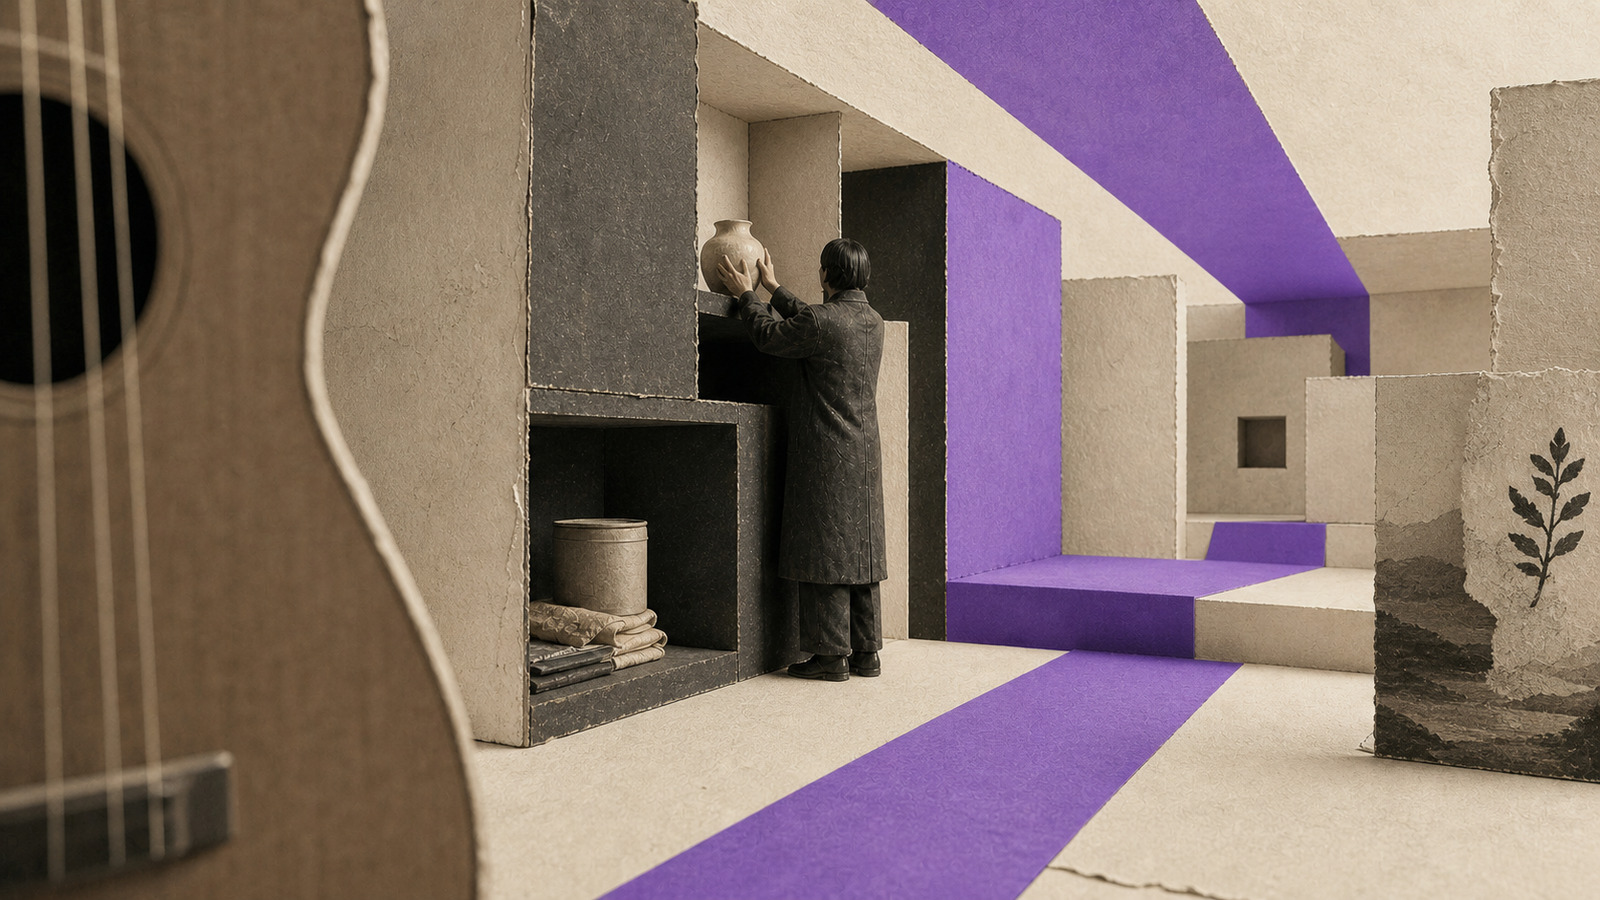
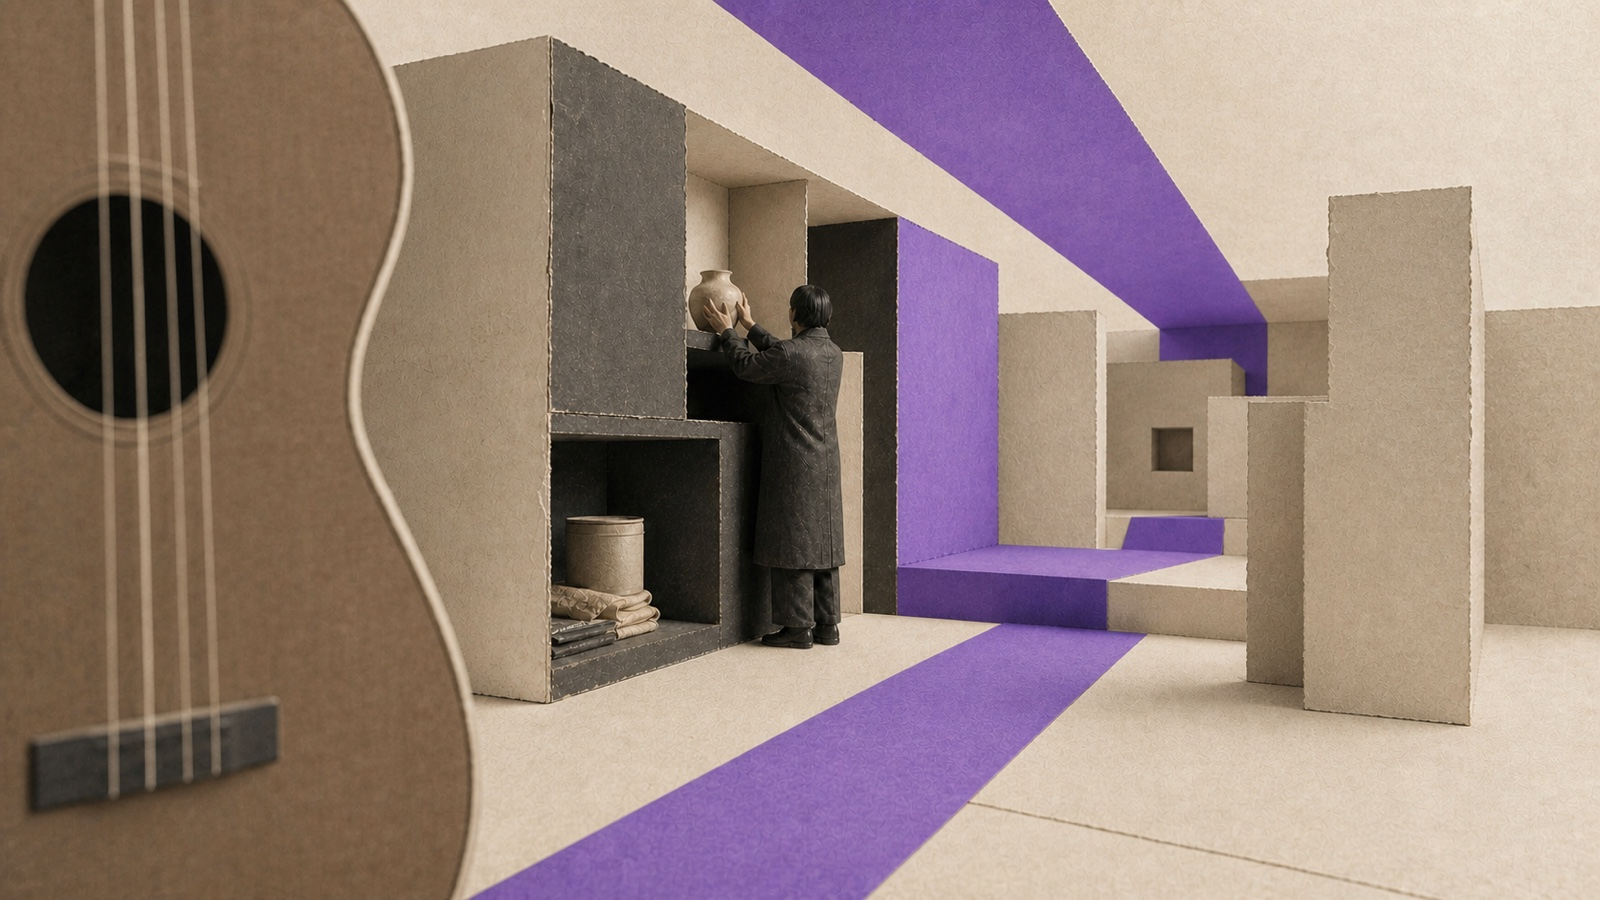
Let the Series 05 image set share one visual climate
The selected panorama now defines the paper, charcoal, lavender, and lighting balance for the series home and all three post heroes. Botanical prints were removed, and post two was pulled back modestly so its interior action has more spatial context.

Constraint: The owner-selected panorama remains the visual reference; post-specific camera narratives stay distinct.

Rejected: Reusing the panorama as every post image | it would erase the three essay-specific viewpoints.

Confidence: high

Scope-risk: narrow

Directive: Keep the four assets on cache version 20260808c as one release unit.

Tested: 66 Node tests, four-page QA gate, desktop 1280 and mobile 390 browser QA, local-final SHA-256 equality.

Not-tested: Public GitHub Pages surface; push remains owner-gated.

diff --git a/series/onchain-storytelling/posts/03-expansion/index.html b/series/onchain-storytelling/posts/03-expansion/index.html
@@ -13,8 +13,8 @@
 <meta property="og:title" content="온체인 스토리텔링 (3) 세계는 옷과 공간과 음악으로 새어 나갔다">
 <meta property="og:description" content="세계관이 있었고 캐릭터가 살았다. 앞의 두 편에서 정리한 이야기다. 이 편은 그 세계가 밖으로 내보낸 것들에 대한 글이다. 확장의 방향은 한 갈래가 아니었다. 영상 연작이 쌓였고, 캐릭터가 옷 브랜드의 화자가 됐고, 호텔의 형태를 한 공간 시스템이 기획됐고, 무대 뒤에">
 <meta property="og:url" content="https://kiheonshin.github.io/blog-post-assets/series/onchain-storytelling/posts/03-expansion/">
-<meta property="og:image" content="https://kiheonshin.github.io/blog-post-assets/series/onchain-storytelling/assets/hero-3.jpg">
-<meta property="og:image:secure_url" content="https://kiheonshin.github.io/blog-post-assets/series/onchain-storytelling/assets/hero-3.jpg">
+<meta property="og:image" content="https://kiheonshin.github.io/blog-post-assets/series/onchain-storytelling/assets/hero-3.jpg?v=20260808c">
+<meta property="og:image:secure_url" content="https://kiheonshin.github.io/blog-post-assets/series/onchain-storytelling/assets/hero-3.jpg?v=20260808c">
 <meta property="og:image:type" content="image/jpeg">
 <!-- 치수를 명시하지 않으면 크롤러가 이미지를 아직 못 받은 첫 공유에서
      썸네일 자리를 잡지 못하고 빈 링크로 보인다 -->
@@ -24,7 +24,7 @@
 <meta name="twitter:card" content="summary_large_image">
 <meta name="twitter:title" content="온체인 스토리텔링 (3) 세계는 옷과 공간과 음악으로 새어 나갔다">
 <meta name="twitter:description" content="세계관이 있었고 캐릭터가 살았다. 앞의 두 편에서 정리한 이야기다. 이 편은 그 세계가 밖으로 내보낸 것들에 대한 글이다. 확장의 방향은 한 갈래가 아니었다. 영상 연작이 쌓였고, 캐릭터가 옷 브랜드의 화자가 됐고, 호텔의 형태를 한 공간 시스템이 기획됐고, 무대 뒤에">
-<meta name="twitter:image" content="https://kiheonshin.github.io/blog-post-assets/series/onchain-storytelling/assets/hero-3.jpg">
+<meta name="twitter:image" content="https://kiheonshin.github.io/blog-post-assets/series/onchain-storytelling/assets/hero-3.jpg?v=20260808c">
 <script async src="https://www.googletagmanager.com/gtag/js?id=G-SQYBGPJFJ4"></script>
 <script>
 window.dataLayer=window.dataLayer||[];
@@ -242,7 +242,7 @@ figcaption{margin-block-start:.75rem;color:var(--ink-muted);
 @media(prefers-reduced-motion:reduce){*{transition:none!important}}
 </style>
 <link rel="stylesheet" href="../../../../assets/site.css?v=20260807j">
-<script type="module" src="../../../../assets/series-nav.js?v=20260808b"></script>
+<script type="module" src="../../../../assets/series-nav.js?v=20260808c"></script>
 <script type="module" src="../../../../assets/agent-handoff.js?v=20260803a"></script>
 
 <style>
@@ -269,7 +269,7 @@ figcaption{margin-block-start:.75rem;color:var(--ink-muted);
     <h1><span class="t-post">세계는 옷과 공간과 음악으로 새어 나갔다</span><span class="t-series">온체인 스토리텔링<span class="t-part">PART 3</span></span></h1>
   </header>
   <figure class="hero">
-    <img src="../../assets/hero-3.jpg" alt="온체인 스토리텔링 (3) 세계는 옷과 공간과 음악으로 새어 나갔다 키 비주얼" width="1600" height="900" decoding="async">
+    <img src="../../assets/hero-3.jpg?v=20260808c" alt="온체인 스토리텔링 (3) 세계는 옷과 공간과 음악으로 새어 나갔다 키 비주얼" width="1600" height="900" decoding="async">
   </figure>
   <p class="lead">세계관이 있었고 캐릭터가 살았다. 앞의 두 편에서 정리한 이야기다. 이 편은 그 세계가 밖으로 내보낸 것들에 대한 글이다. 확장의 방향은 한 갈래가 아니었다. 영상 연작이 쌓였고, 캐릭터가 옷 브랜드의 화자가 됐고, 호텔의 형태를 한 공간 시스템이 기획됐고, 무대 뒤에 숨겨두었던 캐릭터의 다른 얼굴은 실제 음원이 됐고, 아직 그려지지 않은 캐릭터 하나가 미술 갈래의 자리로 남았다. 어떤 것은 실물이 됐고 어떤 것은 아이디어로 남았다. 그 갈래들을 순서대로 적는다.</p>
   <series-nav data-series="onchain-storytelling" data-current="03-expansion"></series-nav>

diff --git a/series/onchain-storytelling/posts/01-worldview/index.html b/series/onchain-storytelling/posts/01-worldview/index.html
@@ -13,8 +13,8 @@
 <meta property="og:title" content="온체인 스토리텔링 (1) 이야기를 담으려면 세계부터 지어야 했다">
 <meta property="og:description" content="2023년 가을에 글 한 편을 발행했다. 모든 것이 온체인 데이터와 트랜잭션으로 정의된 세상을 상상해보셨나요, 라는 질문으로 시작하는 글이었다. 거기서 나는 온체인 스토리텔링(On-chain Storytelling)을 다음 단계의 크리에이티브로 정의했다. 새 기술을 소">
 <meta property="og:url" content="https://kiheonshin.github.io/blog-post-assets/series/onchain-storytelling/posts/01-worldview/">
-<meta property="og:image" content="https://kiheonshin.github.io/blog-post-assets/series/onchain-storytelling/assets/hero-1.jpg">
-<meta property="og:image:secure_url" content="https://kiheonshin.github.io/blog-post-assets/series/onchain-storytelling/assets/hero-1.jpg">
+<meta property="og:image" content="https://kiheonshin.github.io/blog-post-assets/series/onchain-storytelling/assets/hero-1.jpg?v=20260808c">
+<meta property="og:image:secure_url" content="https://kiheonshin.github.io/blog-post-assets/series/onchain-storytelling/assets/hero-1.jpg?v=20260808c">
 <meta property="og:image:type" content="image/jpeg">
 <!-- 치수를 명시하지 않으면 크롤러가 이미지를 아직 못 받은 첫 공유에서
      썸네일 자리를 잡지 못하고 빈 링크로 보인다 -->
@@ -24,7 +24,7 @@
 <meta name="twitter:card" content="summary_large_image">
 <meta name="twitter:title" content="온체인 스토리텔링 (1) 이야기를 담으려면 세계부터 지어야 했다">
 <meta name="twitter:description" content="2023년 가을에 글 한 편을 발행했다. 모든 것이 온체인 데이터와 트랜잭션으로 정의된 세상을 상상해보셨나요, 라는 질문으로 시작하는 글이었다. 거기서 나는 온체인 스토리텔링(On-chain Storytelling)을 다음 단계의 크리에이티브로 정의했다. 새 기술을 소">
-<meta name="twitter:image" content="https://kiheonshin.github.io/blog-post-assets/series/onchain-storytelling/assets/hero-1.jpg">
+<meta name="twitter:image" content="https://kiheonshin.github.io/blog-post-assets/series/onchain-storytelling/assets/hero-1.jpg?v=20260808c">
 <script async src="https://www.googletagmanager.com/gtag/js?id=G-SQYBGPJFJ4"></script>
 <script>
 window.dataLayer=window.dataLayer||[];
@@ -242,7 +242,7 @@ figcaption{margin-block-start:.75rem;color:var(--ink-muted);
 @media(prefers-reduced-motion:reduce){*{transition:none!important}}
 </style>
 <link rel="stylesheet" href="../../../../assets/site.css?v=20260807j">
-<script type="module" src="../../../../assets/series-nav.js?v=20260808b"></script>
+<script type="module" src="../../../../assets/series-nav.js?v=20260808c"></script>
 <script type="module" src="../../../../assets/agent-handoff.js?v=20260803a"></script>
 
 <style>
@@ -269,7 +269,7 @@ figcaption{margin-block-start:.75rem;color:var(--ink-muted);
     <h1><span class="t-post">이야기를 담으려면 세계부터 지어야 했다</span><span class="t-series">온체인 스토리텔링<span class="t-part">PART 1</span></span></h1>
   </header>
   <figure class="hero">
-    <img src="../../assets/hero-1.jpg" alt="온체인 스토리텔링 (1) 이야기를 담으려면 세계부터 지어야 했다 키 비주얼" width="1600" height="900" decoding="async">
+    <img src="../../assets/hero-1.jpg?v=20260808c" alt="온체인 스토리텔링 (1) 이야기를 담으려면 세계부터 지어야 했다 키 비주얼" width="1600" height="900" decoding="async">
   </figure>
   <p class="lead">2023년 가을에 글 한 편을 발행했다. 모든 것이 온체인 데이터와 트랜잭션으로 정의된 세상을 상상해보셨나요, 라는 질문으로 시작하는 글이었다. 거기서 나는 온체인 스토리텔링(On-chain Storytelling)을 다음 단계의 크리에이티브로 정의했다. 새 기술을 소개하는 글이 아니었다. 이야기를 담을 그릇으로 게임 서버도 영상 플랫폼도 아닌, 지워지지 않는 장부를 고르겠다는 글이었다. 이 글은 그 세계가 무엇으로 지어졌는지를 3년 뒤에 다시 정리한 것이다.</p>
   <series-nav data-series="onchain-storytelling" data-current="01-worldview"></series-nav>

diff --git a/series/onchain-storytelling/posts/02-methodology/index.html b/series/onchain-storytelling/posts/02-methodology/index.html
@@ -13,8 +13,8 @@
 <meta property="og:title" content="온체인 스토리텔링 (2) 캐릭터는 정의되기 전에 먼저 살았다">
 <meta property="og:description" content="세계관을 소개하는 글보다 캐릭터가 먼저 있었다. MIXtown의 첫 캐릭터가 채널에 등장한 것이 2023년 8월이고, 온체인 스토리텔링을 정의한 매니페스토는 9월 말에 나왔다. 설정집을 완성한 뒤 캐릭터를 내보낸 것이 아니라, 캐릭터가 한 달 넘게 산 뒤에야 그 세계의">
 <meta property="og:url" content="https://kiheonshin.github.io/blog-post-assets/series/onchain-storytelling/posts/02-methodology/">
-<meta property="og:image" content="https://kiheonshin.github.io/blog-post-assets/series/onchain-storytelling/assets/hero-2.jpg">
-<meta property="og:image:secure_url" content="https://kiheonshin.github.io/blog-post-assets/series/onchain-storytelling/assets/hero-2.jpg">
+<meta property="og:image" content="https://kiheonshin.github.io/blog-post-assets/series/onchain-storytelling/assets/hero-2.jpg?v=20260808c">
+<meta property="og:image:secure_url" content="https://kiheonshin.github.io/blog-post-assets/series/onchain-storytelling/assets/hero-2.jpg?v=20260808c">
 <meta property="og:image:type" content="image/jpeg">
 <!-- 치수를 명시하지 않으면 크롤러가 이미지를 아직 못 받은 첫 공유에서
      썸네일 자리를 잡지 못하고 빈 링크로 보인다 -->
@@ -24,7 +24,7 @@
 <meta name="twitter:card" content="summary_large_image">
 <meta name="twitter:title" content="온체인 스토리텔링 (2) 캐릭터는 정의되기 전에 먼저 살았다">
 <meta name="twitter:description" content="세계관을 소개하는 글보다 캐릭터가 먼저 있었다. MIXtown의 첫 캐릭터가 채널에 등장한 것이 2023년 8월이고, 온체인 스토리텔링을 정의한 매니페스토는 9월 말에 나왔다. 설정집을 완성한 뒤 캐릭터를 내보낸 것이 아니라, 캐릭터가 한 달 넘게 산 뒤에야 그 세계의">
-<meta name="twitter:image" content="https://kiheonshin.github.io/blog-post-assets/series/onchain-storytelling/assets/hero-2.jpg">
+<meta name="twitter:image" content="https://kiheonshin.github.io/blog-post-assets/series/onchain-storytelling/assets/hero-2.jpg?v=20260808c">
 <script async src="https://www.googletagmanager.com/gtag/js?id=G-SQYBGPJFJ4"></script>
 <script>
 window.dataLayer=window.dataLayer||[];
@@ -242,7 +242,7 @@ figcaption{margin-block-start:.75rem;color:var(--ink-muted);
 @media(prefers-reduced-motion:reduce){*{transition:none!important}}
 </style>
 <link rel="stylesheet" href="../../../../assets/site.css?v=20260807j">
-<script type="module" src="../../../../assets/series-nav.js?v=20260808b"></script>
+<script type="module" src="../../../../assets/series-nav.js?v=20260808c"></script>
 <script type="module" src="../../../../assets/agent-handoff.js?v=20260803a"></script>
 
 <style>
@@ -269,7 +269,7 @@ figcaption{margin-block-start:.75rem;color:var(--ink-muted);
     <h1><span class="t-post">캐릭터는 정의되기 전에 먼저 살았다</span><span class="t-series">온체인 스토리텔링<span class="t-part">PART 2</span></span></h1>
   </header>
   <figure class="hero">
-    <img src="../../assets/hero-2.jpg" alt="온체인 스토리텔링 (2) 캐릭터는 정의되기 전에 먼저 살았다 키 비주얼" width="1600" height="900" decoding="async">
+    <img src="../../assets/hero-2.jpg?v=20260808c" alt="온체인 스토리텔링 (2) 캐릭터는 정의되기 전에 먼저 살았다 키 비주얼" width="1600" height="900" decoding="async">
   </figure>
   <p class="lead">세계관을 소개하는 글보다 캐릭터가 먼저 있었다. MIXtown의 첫 캐릭터가 채널에 등장한 것이 2023년 8월이고, 온체인 스토리텔링을 정의한 매니페스토는 9월 말에 나왔다. 설정집을 완성한 뒤 캐릭터를 내보낸 것이 아니라, 캐릭터가 한 달 넘게 산 뒤에야 그 세계의 정의가 발행된 것이다. 이 편은 그 순서에 대한 글이다. 빈 계정에 성격과 소지품과 이야기를 채워 넣는 방법, 그리고 완성하지 않은 자리를 남겨두는 방법에 대해 쓴다.</p>
   <series-nav data-series="onchain-storytelling" data-current="02-methodology"></series-nav>

diff --git a/series/onchain-storytelling/index.html b/series/onchain-storytelling/index.html
@@ -12,14 +12,14 @@
 <meta property="og:title" content="온체인 스토리텔링">
 <meta property="og:description" content="2023년 두 차례의 발표를 3년 뒤에 다시 쓴 포스팅 세 개. 창작의 주체가 어디로 옮겨가는가.">
 <meta property="og:url" content="https://kiheonshin.github.io/blog-post-assets/series/onchain-storytelling/">
-<meta property="og:image" content="https://kiheonshin.github.io/blog-post-assets/series/onchain-storytelling/assets/series-banner.jpg?v=20260808b">
-<meta property="og:image:secure_url" content="https://kiheonshin.github.io/blog-post-assets/series/onchain-storytelling/assets/series-banner.jpg?v=20260808b">
+<meta property="og:image" content="https://kiheonshin.github.io/blog-post-assets/series/onchain-storytelling/assets/series-banner.jpg?v=20260808c">
+<meta property="og:image:secure_url" content="https://kiheonshin.github.io/blog-post-assets/series/onchain-storytelling/assets/series-banner.jpg?v=20260808c">
 <meta property="og:image:type" content="image/jpeg">
 <meta property="og:image:width" content="1600">
 <meta property="og:image:height" content="800">
 <meta property="og:image:alt" content="밝은 보라색 면이 종이 기록 지형과 생활 공간을 지나 거대한 레코드로 이어지는 온체인 스토리텔링 파노라마">
 <meta name="twitter:card" content="summary_large_image">
-<meta name="twitter:image" content="https://kiheonshin.github.io/blog-post-assets/series/onchain-storytelling/assets/series-banner.jpg?v=20260808b">
+<meta name="twitter:image" content="https://kiheonshin.github.io/blog-post-assets/series/onchain-storytelling/assets/series-banner.jpg?v=20260808c">
 <script async src="https://www.googletagmanager.com/gtag/js?id=G-SQYBGPJFJ4"></script>
 <script>
 window.dataLayer=window.dataLayer||[];
@@ -292,7 +292,7 @@ main.idx-wide{width:min(100%,calc(var(--wide) + var(--gutter)*2))}
 .idx > .lead{margin:0 0 2rem;max-width:var(--measure)}
 </style>
 <link rel="stylesheet" href="../../assets/site.css?v=20260807j">
-<script type="module" src="../../assets/series-nav.js?v=20260808b"></script>
+<script type="module" src="../../assets/series-nav.js?v=20260808c"></script>
 </head>
 <body>
 <a class="skip" href="#main">본문으로 건너뛰기</a>

diff --git a/assets/content-manifest.js b/assets/content-manifest.js
@@ -331,7 +331,7 @@ export const contentLibrary = {
       topics: ["기록과 서사", "IP와 정체성", "현실과 가상"],
       keywords: ["온체인 스토리텔링", "TBA", "캐릭터 설계", "코-크리에이션"],
       href: "series/onchain-storytelling/",
-      cover: "series/onchain-storytelling/assets/series-banner.jpg?v=20260808b",
+      cover: "series/onchain-storytelling/assets/series-banner.jpg?v=20260808c",
       coverAlt:
         "밝은 보라색 면이 종이 기록 지형과 생활 공간을 지나 거대한 레코드로 이어지는 온체인 스토리텔링 파노라마",
       published: "2026-08-06",

diff --git a/index.html b/index.html
@@ -17,7 +17,7 @@
 <link rel="icon" href="assets/favicon.svg" type="image/svg+xml">
 <link rel="preload" href="series/aigc-creative-paradigm/assets/series-banner.jpg" as="image" fetchpriority="high">
 <link rel="stylesheet" href="assets/site.css?v=20260807j">
-<script type="module" src="assets/series-nav.js?v=20260808b"></script>
+<script type="module" src="assets/series-nav.js?v=20260808c"></script>
 <script async src="https://www.googletagmanager.com/gtag/js?id=G-SQYBGPJFJ4"></script>
 <script>
 window.dataLayer=window.dataLayer||[];

diff --git a/assets/series-nav.js b/assets/series-nav.js
@@ -2,7 +2,7 @@
    HTML만 새로 받고 모듈은 캐시에서 꺼내 쓰는 일이 생긴다. 그러면 새 시리즈가
    목록에서 빠지고 "시리즈 정보를 불러오지 못했습니다"가 뜬다(2026-07-25 실증).
    페이지의 series-nav.js?v= 값과 반드시 같이 올릴 것. */
-import { contentLibrary, getSeries } from "./content-manifest.js?v=20260808b";
+import { contentLibrary, getSeries } from "./content-manifest.js?v=20260808c";
 
 const siteRoot = new URL("../", import.meta.url);
 

diff --git a/series/onchain-storytelling/sources/proposal-idea-notes/index.html b/series/onchain-storytelling/sources/proposal-idea-notes/index.html
@@ -558,7 +558,7 @@ button.frame{padding:0;cursor:zoom-in}
     margin-block-start:.7rem;font-size:1.1rem}
 }
 </style>
-<script type="module" src="../../../../assets/series-nav.js?v=20260808b"></script>
+<script type="module" src="../../../../assets/series-nav.js?v=20260808c"></script>
 </head>
 <body class="library-page source-page">
 <a class="skip" href="#main">본문으로 건너뛰기</a>

diff --git a/series/onchain-storytelling/sources/proposal-mxtwn-x/index.html b/series/onchain-storytelling/sources/proposal-mxtwn-x/index.html
@@ -561,7 +561,7 @@ button.frame{padding:0;cursor:zoom-in}
     margin-block-start:.7rem;font-size:1.1rem}
 }
 </style>
-<script type="module" src="../../../../assets/series-nav.js?v=20260808b"></script>
+<script type="module" src="../../../../assets/series-nav.js?v=20260808c"></script>
 </head>
 <body class="library-page source-page">
 <a class="skip" href="#main">본문으로 건너뛰기</a>

diff --git a/series/onchain-storytelling/sources/proposal-sapienz-town/index.html b/series/onchain-storytelling/sources/proposal-sapienz-town/index.html
@@ -558,7 +558,7 @@ button.frame{padding:0;cursor:zoom-in}
     margin-block-start:.7rem;font-size:1.1rem}
 }
 </style>
-<script type="module" src="../../../../assets/series-nav.js?v=20260808b"></script>
+<script type="module" src="../../../../assets/series-nav.js?v=20260808c"></script>
 </head>
 <body class="library-page source-page">
 <a class="skip" href="#main">본문으로 건너뛰기</a>

diff --git a/series/onchain-storytelling/sources/proposal-strategy-diagrams/index.html b/series/onchain-storytelling/sources/proposal-strategy-diagrams/index.html
@@ -558,7 +558,7 @@ button.frame{padding:0;cursor:zoom-in}
     margin-block-start:.7rem;font-size:1.1rem}
 }
 </style>
-<script type="module" src="../../../../assets/series-nav.js?v=20260808b"></script>
+<script type="module" src="../../../../assets/series-nav.js?v=20260808c"></script>
 </head>
 <body class="library-page source-page">
 <a class="skip" href="#main">본문으로 건너뛰기</a>
